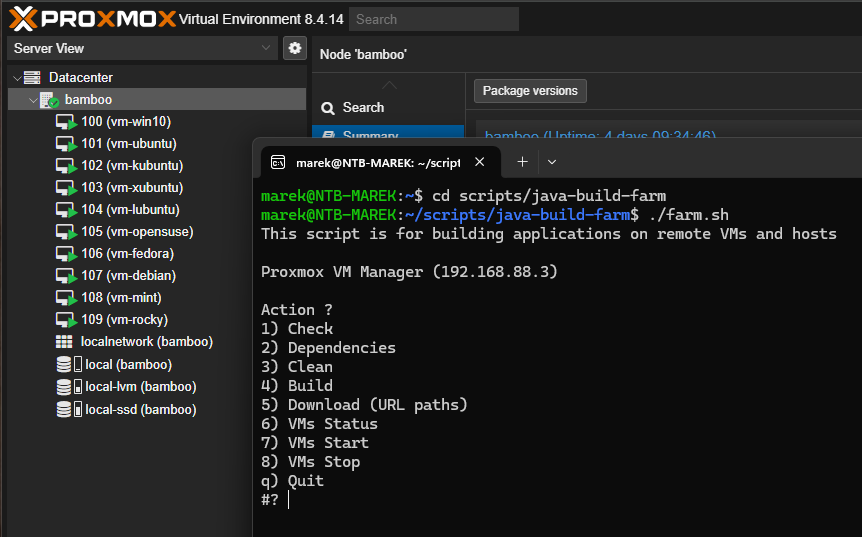
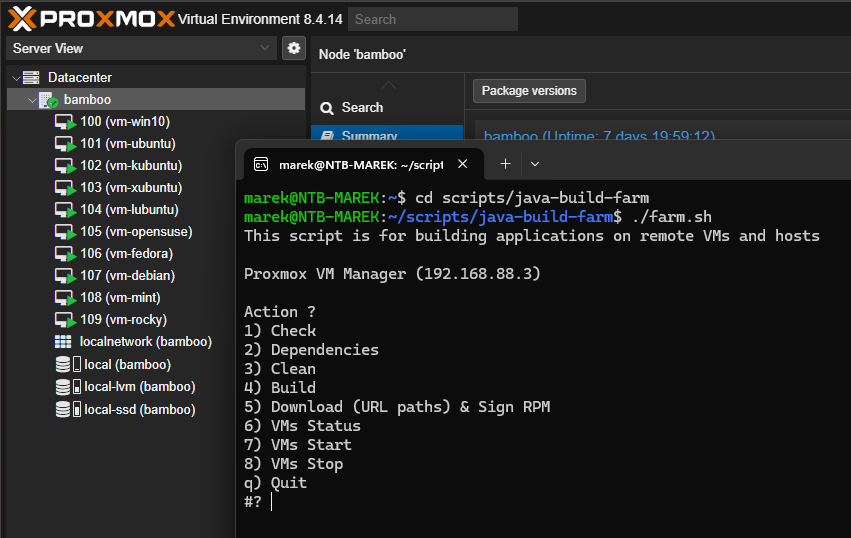
GPG signatures for RPMs and package information

diff --git a/README.md b/README.md
@@ -15,7 +15,8 @@
 8. [Configuring PowerShell on Windows](#configuring-powershell-on-windows)
 9. [Configuring SSH Key-Based Authentication](#configuring-ssh-key-based-authentication)
 10. [Configuring Passwordless Sudo for Linux Stations](#configuring-passwordless-sudo-for-linux-stations)
-11. [License](#license)
+11. [Configuring RPM Signing (GPG)](#configuring-gpg-signing)
+12. [License](#license)
 
 ## <a id="overview"></a> Overview
 Java Build Farm is a script-based automation system for building and packaging Java applications across multiple operating systems and distributions. It enables automatic dependency installation, building, and distribution of Java applications using Proxmox virtual machines and remote hosts.
@@ -27,6 +28,7 @@ Java Build Farm is a script-based automation system for building and packaging J
 - Java Runtime creation using `jlink`
 - Application packaging using `jpackage`
 - Multi-platform package generation (`.deb`, `.rpm`, `.pkg`, `.exe`)
+- Automated RPM package signing using GPG
 - `.exe` installer builds using [Inno Setup Compiler](https://jrsoftware.org/isinfo.php)
 - Remote VM/host provisioning via Proxmox
 - Secure, passwordless SSH authentication
@@ -38,6 +40,7 @@ Java Build Farm is a script-based automation system for building and packaging J
 - **Internet access**
 - **SSH client:** `ssh`, `scp`
 - **Other utilities:** `ping`, `sudo`, `bash`, `tar`, `find`, `awk`, `sed`, `cut`, `head`, `tr`, `rm`, `mkdir`, `chmod`
+- **RPM Signing:** `rpmsign` (usually from the `rpm-sign` or `rpm` package) and `gpg` (for key management)
 - **Proxmox:** (If using Proxmox for VMs)
 - **PowerShell 7.2 or higher:** (For building on Windows hosts)
 
@@ -182,7 +185,9 @@ graph TD;
     E2 -->|Package exe, msi| F1(Archive Output);
     E3 -->|Package deb, rpm| F1;
 
-    C5 -->|Retrieve Files| G1(Store Release Dir);
+    C5 -->|Retrieve Packages via SCP| H1(Files Retrieved to Local Directory);
+    H1 -->|Apply GPG Signature| G1(Sign RPM Packages);
+    G1 -->|Process Complete| I1(Packages Stored in Release Dir);
 
     style C4 stroke:#aaa,stroke-width:3px,font-weight:bold;
     style C5 stroke:#aaa,stroke-width:3px,font-weight:bold;
@@ -202,6 +207,7 @@ graph TD;
 * Uses **SSH & SCP** to copy the packaged files.
 * Optionally applies URL path optimization (lowercase, dashes) if `release_url_paths=yes`.
 * Stores them in the local **release directory**.
+* Automatically signs all found `.rpm` packages using the GPG key specified in `global.cfg`.
 ---
 
 #### Virtual Machine Management (VMs Status, Start, Stop)
@@ -272,6 +278,11 @@ The build farm consists of virtual machines (VMs) and/or physical hosts that are
 
    # SSH user for accessing the Proxmox server
    proxmox_user=root
+
+   # GPG key configuration for signing RPM packages
+   # Use the key ID or user identity associated with the signing key.
+   # Example: 9E736AF1D162F3F6FF21E3659A1A41C5DDF5A11A or "Marek Liška <adlatus@marelis.cz>"
+   gpg_key_id="9E736AF1D162F3F6FF21E3659A1A41C5DDF5A11A"
    ```
 
 #### Virtual Machines Configuration (`config/vms.cfg`)
@@ -582,8 +593,8 @@ This section provides step-by-step instructions for setting up virtual machines 
 ---
 
 ### openSUSE Tumbleweed x64
-- **Download**: [openSUSE Tumbleweed](https://get.opensuse.org/tumbleweed)
-- **ISO**: `openSUSE-Tumbleweed-DVD-x86_64-Snapshot20250308-Media.iso`
+- **Download**: [openSUSE Tumbleweed](https://download.opensuse.org/tumbleweed/iso/openSUSE-Tumbleweed-DVD-x86_64-Current.iso)
+- **ISO**: `openSUSE-Tumbleweed-DVD-x86_64-Current.iso`
 - **VM Config**:
   ```sh
    root@pve:~# qm config 105
@@ -593,7 +604,7 @@ This section provides step-by-step instructions for setting up virtual machines 
    boot: order=scsi0;ide2;net0
    cores: 2
    cpu: x86-64-v2-AES
-   ide2: local-ssd:iso/openSUSE-Tumbleweed-DVD-x86_64-Snapshot20250308-Media.iso,media=cdrom,size=4464M
+   ide2: local-ssd:iso/openSUSE-Tumbleweed-DVD-x86_64-Current.iso,media=cdrom,size=4464M
    memory: 4096
    meta: creation-qemu=8.1.2,ctime=1704991368
    name: vm-opensuse
@@ -943,7 +954,62 @@ sudo reboot
 
 After these steps, the build user will be able to execute commands with `sudo` without being prompted for a password.
 
-## License
+## <a id="configuring-gpg-signing"></a> Configuring RPM Signing (GPG)
+
+For automatic RPM package signing during the **5) Download** step, the GPG environment must be properly configured on the local machine (the machine running `farm.sh`).
+
+### 1. Importing the Private Key
+
+Ensure that you have the **private key** corresponding to the ID set in `config/global.cfg` imported into your GPG keychain.
+
+1. **Verify the presence of the private key:**
+
+```sh
+gpg --list-secret-keys --keyid-format long
+````
+
+Look for the line starting with `sec`. If your key is missing from the list, you must import it.
+
+2.  **Import the private key:**
+
+```sh
+# Replace the path:
+gpg --import /path/to/your/private-key.asc
+```
+
+### 2\. Configuring `~/.rpmmacros`
+
+To ensure that the `rpmsign` tool finds the GPG program and uses the correct key, you must create or modify the configuration file **`~/.rpmmacros`** in your home directory.
+
+1.  **Create/Edit the `~/.rpmmacros` file:**
+
+```sh
+nano ~/.rpmmacros
+```
+
+2.  **Add the following lines:**
+
+    *Verify the path to the `gpg` program (`/usr/bin/gpg`) using the `which gpg` command.*
+    *Replace the Key ID with your actual, full or abbreviated ID (e.g., `9E736AF1D162F3F6FF21E3659A1A41C5DDF5A11A`).*
+
+    ```cfg
+    # Explicit path to the GPG program used by rpmsign
+    %__gpg /usr/bin/gpg
+
+    # Key ID used for signing (must match the key in global.cfg)
+    %_gpg_name 9E736AF1D162F3F6FF21E3659A1A41C5DDF5A11A
+    ```
+
+### 3\. Setting the Key ID in `global.cfg`
+
+Verify that the `gpg_key_id` variable in the `config/global.cfg` file contains the correct key ID (the same as in `~/.rpmmacros`).
+
+```cfg
+# GPG key configuration for signing RPM packages
+gpg_key_id="9E736AF1D162F3F6FF21E3659A1A41C5DDF5A11A"
+```
+
+## <a id="license"></a> License
 
 This project is licensed under the [Apache License 2.0](LICENSE).
 
